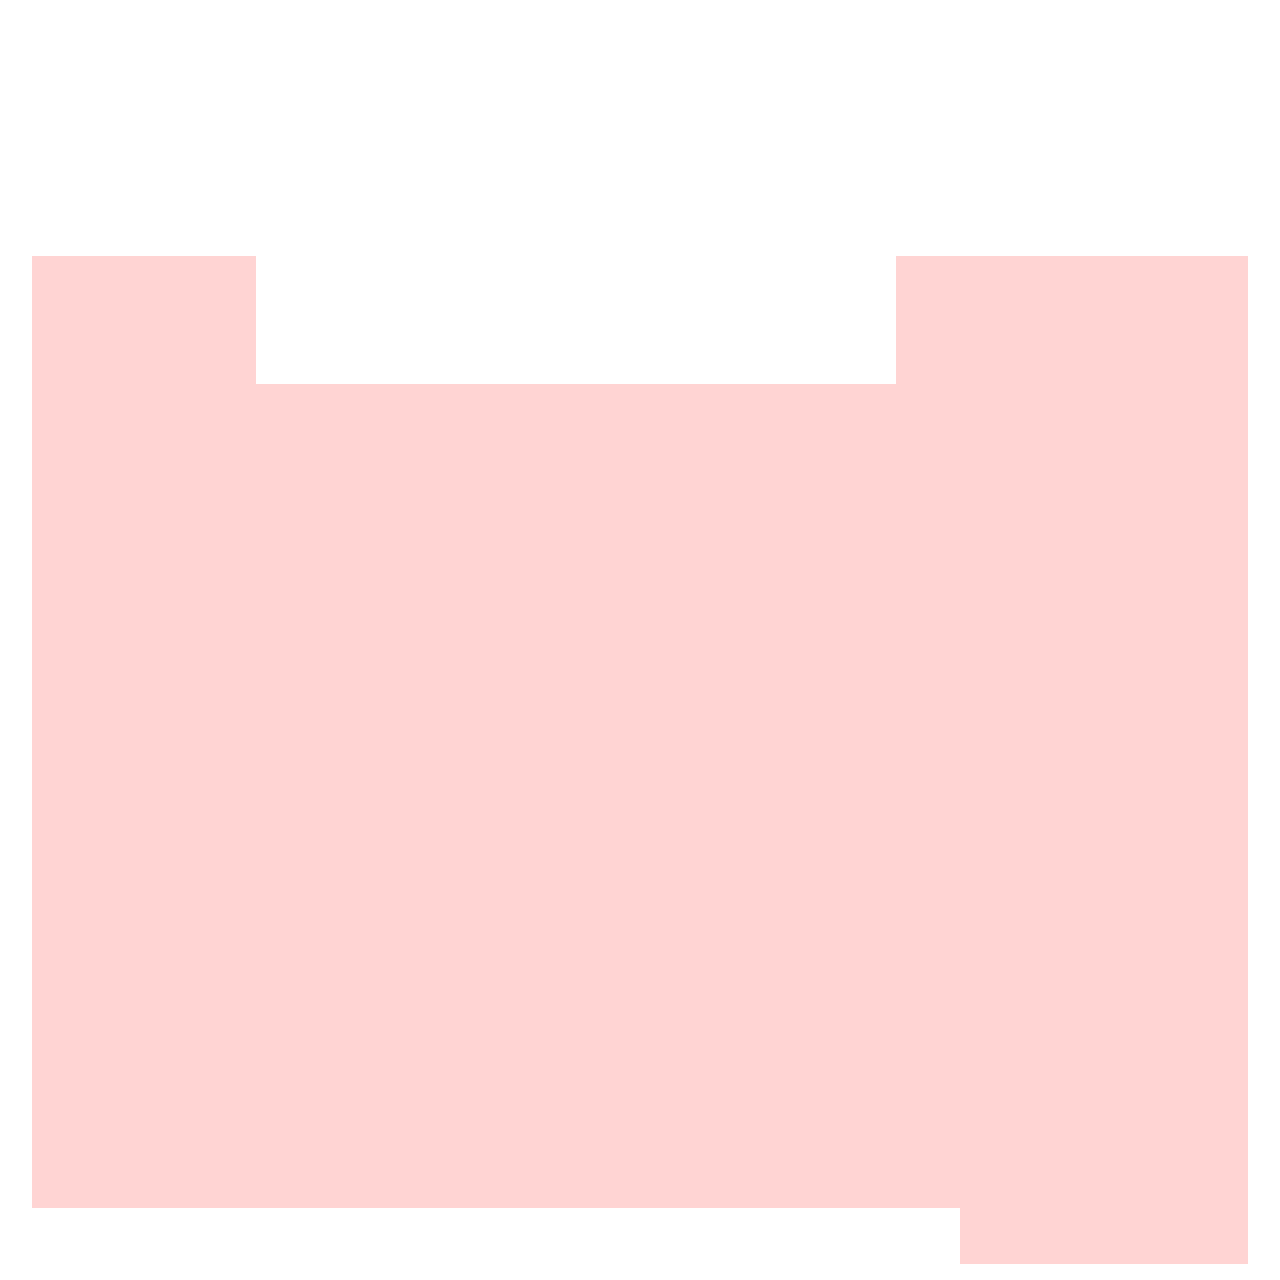
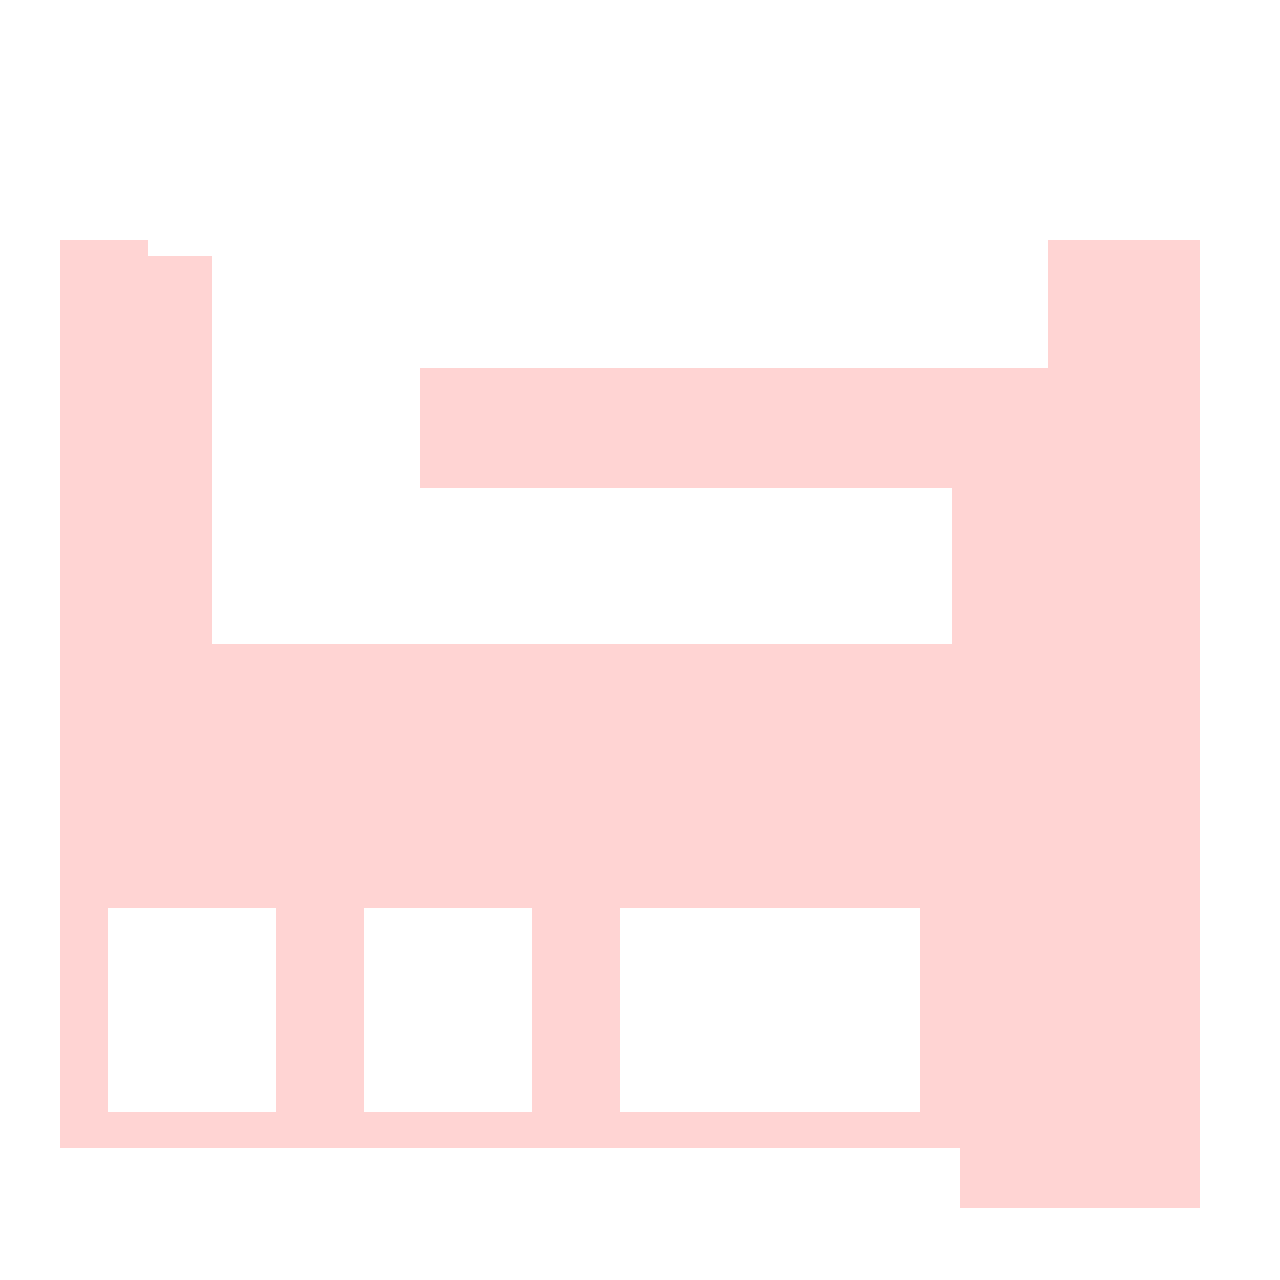
update 11/17

Changed region(s): [[0.0, 0.1875, 1.0, 1.0]]

diff --git a/player.py b/player.py
@@ -2,6 +2,8 @@ from cmu_graphics import *
 from PIL import Image
 
 class Player():
+
+    # initialize player
     def __init__(self, playerPosX, playerPosY, name):
         self.playerDirX, self.playerDirY = 0, 0
         self.playerPosX = playerPosX
@@ -9,8 +11,13 @@ class Player():
         self.name = name
         self.validSpaceImage = './images/cafeValidMovementImage.PNG'
         self.validBoard = [ [1]*640 for row in range(640) ]
-                
-    def playerKeyPress(self, key):
+        self.selection = (0,0)
+
+    
+    # move the player
+    def move(self,key):
+        if key not in ['up','down','left','right']:
+            pass
         if key == 'up':
             self.playerDirY = -1
             self.playerDirX = 0
@@ -24,9 +31,6 @@ class Player():
             self.playerDirX = 1
             self.playerDirY = 0
 
-    
-    # move the player
-    def move(self):
         newPosX = self.playerPosX + self.playerDirX * 8
         newPosY = self.playerPosY + self.playerDirY * 8
         if 0 <= newPosX < len(self.validBoard) and 0 <= newPosY < len(self.validBoard[0]):
@@ -34,19 +38,100 @@ class Player():
                 self.playerPosX = newPosX
                 self.playerPosY = newPosY
 
-    
+    # get the valid coordinates that the player can move
     def getCafeValidMovement(self):
         validSpaceImg = Image.open('./images/cafeValidMovementImage.PNG')
-        print(validSpaceImg.width, validSpaceImg.height)
+        # print(validSpaceImg.width, validSpaceImg.height)
         validSpaceImg = validSpaceImg.resize((640,640))
-        print(validSpaceImg.width, validSpaceImg.height)
+        # print(validSpaceImg.width, validSpaceImg.height)
         for x in range(validSpaceImg.width):
             for y in range(validSpaceImg.height):
                 pixel = validSpaceImg.getpixel((x, y))
                 if pixel == (0,0,0,0):
                     self.validBoard[x][y] = 0
 
+    def doSelectionDesk(self):
+        if (216 <= self.playerPosX <= 256 and 224 <= self.playerPosY <= 240 and
+             self.playerDirX == 0 and self.playerDirY == 1):
+            if self.selection == (0,0):
+                self.selection = (3,4)
+            else:
+                self.selection = (0,0)
 
+        elif (264 <= self.playerPosX <= 320 and 224 <= self.playerPosY <= 240 and
+             self.playerDirX == 0 and self.playerDirY == 1):
+            if self.selection == (0,0):
+                self.selection = (4,4)
+            else:
+                self.selection = (0,0)
+            
+        elif (328 <= self.playerPosX <= 384 and 224 <= self.playerPosY <= 240 and
+             self.playerDirX == 0 and self.playerDirY == 1):
+            if self.selection == (0,0):
+                self.selection = (5,4)
+            else:
+                self.selection = (0,0)
+            
+        elif (392 <= self.playerPosX <= 448 and 224 <= self.playerPosY <= 240 and
+             self.playerDirX == 0 and self.playerDirY == 1):
+            if self.selection == (0,0):
+                self.selection = (6,4)
+            else:
+                self.selection = (0,0)
+
+        elif (216 <= self.playerPosX <= 232 and 192 <= self.playerPosY <= 240 and
+             self.playerDirX == -1 and self.playerDirY == 0):
+            if self.selection == (0,0):
+                self.selection = (2,3)
+            else:
+                self.selection = (0,0)
+
+        elif ((464 <= self.playerPosX <= 512 and 184 <= self.playerPosY <= 224 and
+             self.playerDirX == 0 and self.playerDirY == -1) or 
+             (528 <= self.playerPosX <= 536 and 120 <= self.playerPosY <= 176 and
+             self.playerDirX == -1 and self.playerDirY == 0)):
+            if self.selection == (0,0):
+                self.selection = (7,2)
+            else:
+                self.selection = (0,0)
+            
+    def doSelectionFood(self):
+        if (216 <= self.playerPosX <= 224 and 184 <= self.playerPosY <= 216 and
+             self.playerDirX == 0 and self.playerDirY == -1):
+            if self.selection == (0,0):
+                self.selection = (3,2)
+            else:
+                self.selection = (0,0)
+
+        elif (232 <= self.playerPosX <= 256 and 184 <= self.playerPosY <= 216):
+            if self.selection == (0,0):
+                self.selection = (3.5,2)
+            else:
+                self.selection = (0,0)
+
+        elif (264 <= self.playerPosX <= 288 and 184 <= self.playerPosY <= 216):
+            if self.selection == (0,0):
+                self.selection = (4,2)
+            else:
+                self.selection = (0,0)
+        
+        elif (296 <= self.playerPosX <= 320 and 184 <= self.playerPosY <= 216):
+            if self.selection == (0,0):
+                self.selection = (4.5,2)
+            else:
+                self.selection = (0,0)
+
+        elif (328 <= self.playerPosX <= 352 and 184 <= self.playerPosY <= 216):
+            if self.selection == (0,0):
+                self.selection = (5,2)
+            else:
+                self.selection = (0,0)
+
+        elif (360 <= self.playerPosX <= 384 and 184 <= self.playerPosY <= 216):
+            if self.selection == (0,0):
+                self.selection = (5.5,2)
+            else:
+                self.selection = (0,0)
 
         
         

diff --git a/starter.py b/starter.py
@@ -3,25 +3,42 @@ from player import *
 from PIL import Image
 
 def onAppStart(app):
-    # app.cafeURL = 'cmu://872707/34739461/cafeImage.PNG'
-    # app.amuroURL = 'cmu://872707/34739463/amuroImage.png'
-    print('hello')
+    app.keyHeld = None
 
 def redrawAll(app):
     drawImage('./images/cafeImage.PNG', 0, 0, width=640, height=640)
-    drawImage('./images/amuroImage.PNG', amuro.playerPosX, amuro.playerPosY, width=128, height=128, align='center')
-    
     addCafeCustomerDesks()
-    addCafeKitchenDesks()
-    addCafeChairs()
-    
-def onKeyPress(app, key):
-    amuro.playerKeyPress(key)
-    amuro.move()
+    addCafeKitchenDesksBottom()
+    addTrashCan()
 
-def onKeyHold(app, key):
-    amuro.playerKeyPress(key)
-    amuro.move()
+    drawSelectionTrashCan()
+    drawSelectionFood()
+
+    # draw moving amuro
+    drawImage('./images/amuroImage.PNG', amuro.playerPosX, amuro.playerPosY, width=128, height=128, align='center')
+
+    addCafeKitchenDesksTop()
+    addCafeChairs()
+
+    drawSelectionDesk()
+
+    print(amuro.playerPosX, amuro.playerPosY)
+    # print(amuro.selection)
+
+def onStep(app):
+    if app.keyHeld in ['up', 'down', 'left', 'right']:
+        amuro.move(app.keyHeld)
+
+def onKeyPress(app, key):
+    app.keyHeld = key
+    if key == 'space':
+        amuro.doSelectionDesk()
+        amuro.doSelectionFood()
+
+def onKeyRelease(app, key):
+    if app.keyHeld == key:
+        app.keyHeld = None
+
 
 def addCafeCustomerDesks():
     drawImage('./images/desk1Image.PNG', 96, 544, width=64, height=64, align='center')
@@ -29,13 +46,19 @@ def addCafeCustomerDesks():
     drawImage('./images/desk1Image.PNG', 352, 544, width=64, height=64, align='center')
     drawImage('./images/desk1Image.PNG', 416, 544, width=64, height=64, align='center')
 
-def addCafeKitchenDesks():
+def addCafeKitchenDesksTop():
+    drawImage('./images/desk2TopImage.PNG', 224, 288, width=64, height=64, align='center')
+    drawImage('./images/desk2TopImage.PNG', 288, 288, width=64, height=64, align='center')
+    drawImage('./images/desk2TopImage.PNG', 352, 288, width=64, height=64, align='center')
+    drawImage('./images/desk2TopImage.PNG', 416, 288, width=64, height=64, align='center')
+
+def addCafeKitchenDesksBottom():
     drawImage('./images/desk2Image.PNG', 160, 224, width=64, height=64, align='center')
     drawImage('./images/desk2Image.PNG', 160, 288, width=64, height=64, align='center')
-    drawImage('./images/desk2Image.PNG', 224, 288, width=64, height=64, align='center')
-    drawImage('./images/desk2Image.PNG', 288, 288, width=64, height=64, align='center')
-    drawImage('./images/desk2Image.PNG', 352, 288, width=64, height=64, align='center')
-    drawImage('./images/desk2Image.PNG', 416, 288, width=64, height=64, align='center')
+    drawImage('./images/desk2BottomImage.PNG', 224, 288, width=64, height=64, align='center')
+    drawImage('./images/desk2BottomImage.PNG', 288, 288, width=64, height=64, align='center')
+    drawImage('./images/desk2BottomImage.PNG', 352, 288, width=64, height=64, align='center')
+    drawImage('./images/desk2BottomImage.PNG', 416, 288, width=64, height=64, align='center')
 
 def addCafeChairs():
     drawImage('./images/chairImage.PNG', 96, 480, width=64, height=64, align='center')
@@ -43,13 +66,41 @@ def addCafeChairs():
     drawImage('./images/chairImage.PNG', 352, 480, width=64, height=64, align='center')
     drawImage('./images/chairImage.PNG', 416, 480, width=64, height=64, align='center')
 
+def addTrashCan():
+    drawImage('./images/trashcanImage.PNG', 480, 160, width=64, height=64, align='center')
+
+def drawSelectionDesk():
+    if amuro.selection != (0,0) and amuro.selection in [(3,4), (4,4), (5,4), (6,4), (2,3)]:
+        drawImage('./images/selectionDeskImage.PNG', amuro.selection[0]*64, amuro.selection[1]*64, width=64, height=64, opacity=40)
+
+def drawSelectionTrashCan():
+    if amuro.selection == (7,2):
+        drawImage('./images/selectionDeskImage.PNG', amuro.selection[0]*64, amuro.selection[1]*64, width=64, height=64, opacity=40)
+
+
+def drawSelectionFood():
+    if amuro.selection == (3,2):
+        drawImage('./images/selectionFoodImage.PNG', 204, 130, width=64, height=64, opacity=40)
+    elif amuro.selection == (3.5,2):
+        drawImage('./images/selectionFoodImage.PNG', 228, 130, width=64, height=64, opacity=40)
+    elif amuro.selection == (4,2):
+        drawImage('./images/selectionFoodImage.PNG', 260, 130, width=64, height=64, opacity=40)
+    elif amuro.selection == (4.5,2):
+        drawImage('./images/selectionFoodImage.PNG', 284, 130, width=64, height=64, opacity=40)
+    elif amuro.selection == (5,2):
+        drawImage('./images/selectionFoodImage.PNG', 332, 130, width=64, height=64, opacity=40)
+    elif amuro.selection == (5.5,2):
+        drawImage('./images/selectionFoodImage.PNG', 356, 130, width=64, height=64, opacity=40)
+
+
 def main():
     runApp(width=640, height=640)
 
 
 
-amuro = Player(320, 320, 'amuro')
+amuro = Player(32, 280, 'amuro')
 amuro.getCafeValidMovement()
+
 
 
 main()

diff --git a/plan.md b/plan.md
@@ -1,0 +1,8 @@
+### 11/17
+
+* 设置伪3D遮盖 done
+* 加入选择框 
+* 做pop-up窗口
+* 做introduction窗口
+* 做拿起食物跟随动画
+* 设置Plate的class
